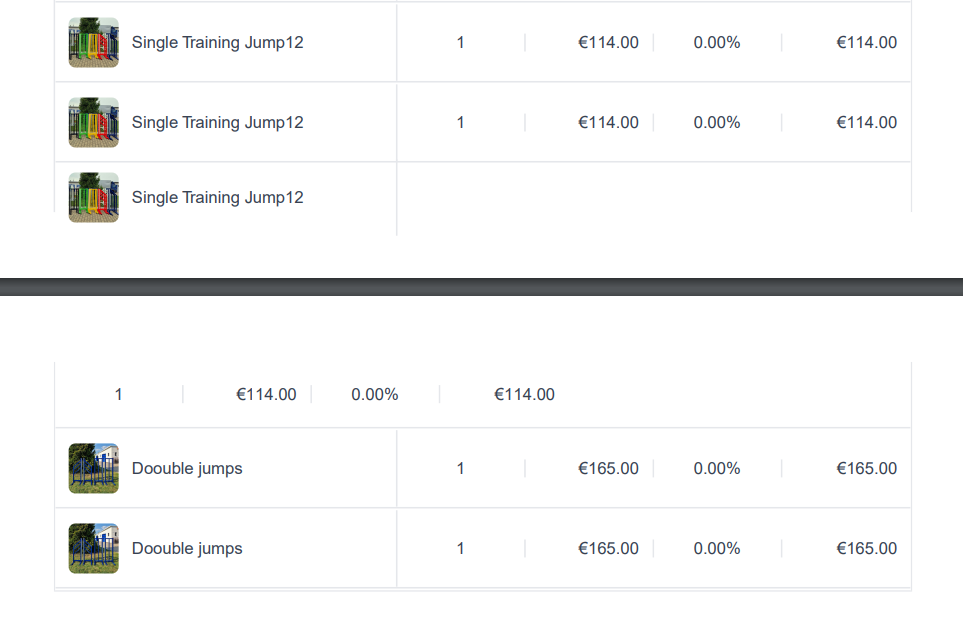
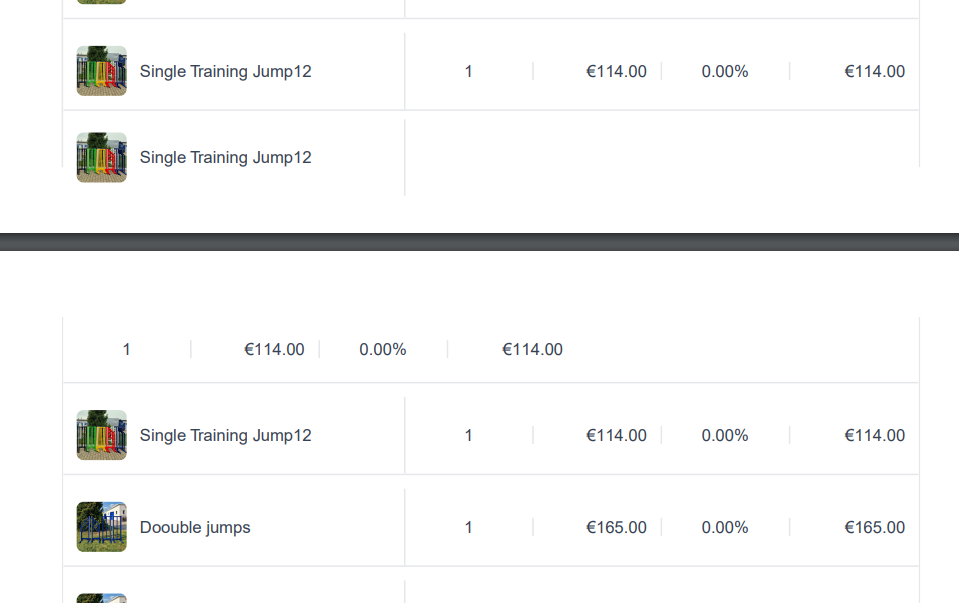
Agent query: Can you generate a PDF with multiple items to verify if the table rows and page breaks are working correctly now? Are items still being split across pages?

diff --git a/client/src/components/PDFGenerator.tsx b/client/src/components/PDFGenerator.tsx
@@ -77,8 +77,6 @@ const styles = StyleSheet.create({
     lineHeight: 1.4,
   },
   table: {
-    display: "flex",
-    flexDirection: "column",
     width: "100%",
     marginTop: 20,
     marginBottom: 20,
@@ -87,20 +85,25 @@ const styles = StyleSheet.create({
     borderStyle: "solid",
   },
   tableRow: {
-    flexDirection: "row",
+    width: "100%",
+    height: 50,
     borderBottomWidth: 1,
     borderBottomColor: "#e5e7eb",
     borderBottomStyle: "solid",
-    minHeight: 40,
-    alignItems: "center",
+    paddingVertical: 8,
   },
   tableRowWrapper: {
     width: "100%",
-    breakInside: "avoid",
+    breakInside: "avoid-page",
     pageBreakInside: "avoid",
-    marginBottom: 4,
-    paddingTop: 2,
-    paddingBottom: 2,
+    marginBottom: 8,
+    paddingVertical: 4,
+  },
+  tableContent: {
+    width: "100%",
+    flexDirection: "row",
+    alignItems: "center",
+    height: "100%",
   },
   tableHeader: {
     backgroundColor: "#f9fafb",
@@ -275,60 +278,66 @@ function OfferPDF({ offer, client, items, fileName }: OfferPDFProps) {
         </View>
 
         <View style={styles.table}>
-          <View style={{ breakInside: 'avoid', pageBreakInside: 'avoid' }}>
+          <View style={{ breakInside: 'avoid-page', pageBreakInside: 'avoid', marginBottom: 16 }}>
             <View style={[styles.tableRow, styles.tableHeader]}>
-              <Text style={[styles.tableCell, styles.tableCellProduct]}>
-                Product
-              </Text>
-              <Text style={[styles.tableCell, styles.tableCellQuantity]}>
-                Quantity
-              </Text>
-              <Text style={[styles.tableCell, styles.tableCellPrice]}>
-                Unit Price
-              </Text>
-              <Text style={[styles.tableCell, styles.tableCellDiscount]}>
-                Discount
-              </Text>
-              <Text style={[styles.tableCell, styles.tableCellTotal]}>Total</Text>
+              <View style={styles.tableContent}>
+                <Text style={[styles.tableCell, styles.tableCellProduct]}>
+                  Product
+                </Text>
+                <Text style={[styles.tableCell, styles.tableCellQuantity]}>
+                  Quantity
+                </Text>
+                <Text style={[styles.tableCell, styles.tableCellPrice]}>
+                  Unit Price
+                </Text>
+                <Text style={[styles.tableCell, styles.tableCellDiscount]}>
+                  Discount
+                </Text>
+                <Text style={[styles.tableCell, styles.tableCellTotal]}>Total</Text>
+              </View>
             </View>
           </View>
 
           {items.map((item) => {
-            const subtotal = item.quantity * item.unitPrice;
-            const discount = subtotal * (item.discount / 100);
+            const subtotal = Number(item.quantity) * Number(item.unitPrice);
+            const discount = subtotal * (Number(item.discount) / 100);
             const total = subtotal - discount;
 
             return (
-              <View key={item.id} style={styles.tableRowWrapper}>
-                <View style={styles.tableRow}>
-                  <View style={[styles.tableCell, styles.tableCellProduct]}>
-                    {item.product.imageUrl ? (
-                      <Image
-                        src={item.product.imageUrl}
-                        style={styles.productImage}
-                      />
-                    ) : (
-                      <View
-                        style={[
-                          styles.productImage,
-                          { backgroundColor: "#f4f4f4" },
-                        ]}
-                      />
-                    )}
-                    <Text>{item.product.name}</Text>
+              <View key={item.id} style={{ breakInside: 'avoid-page', pageBreakInside: 'avoid' }}>
+                <View style={styles.tableRowWrapper}>
+                  <View style={styles.tableRow}>
+                    <View style={styles.tableContent}>
+                      <View style={[styles.tableCell, styles.tableCellProduct]}>
+                        {item.product.imageUrl ? (
+                          <Image
+                            src={item.product.imageUrl}
+                            style={styles.productImage}
+                          />
+                        ) : (
+                          <View
+                            style={[
+                              styles.productImage,
+                              { backgroundColor: "#f4f4f4" },
+                            ]}
+                          />
+                        )}
+                        <Text>{item.product.name}</Text>
+                      </View>
+                      <Text style={[styles.tableCell, styles.tableCellQuantity]}>
+                        {item.quantity}
+                      </Text>
+                      <Text style={[styles.tableCell, styles.tableCellPrice]}>
+                        €{Number(item.unitPrice).toFixed(2)}
+                      </Text>
+                      <Text style={[styles.tableCell, styles.tableCellDiscount]}>
+                        {item.discount}%
+                      </Text>
+                      <Text style={[styles.tableCell, styles.tableCellTotal]}>
+                        €{total.toFixed(2)}
+                      </Text>
+                    </View>
                   </View>
-                  <Text style={[styles.tableCell, styles.tableCellQuantity]}>
-                    {item.quantity}
-                  </Text>
-                  <Text style={[styles.tableCell, styles.tableCellPrice]}>
-                    €{Number(item.unitPrice).toFixed(2)}
-                  </Text>
-                  <Text style={[styles.tableCell, styles.tableCellDiscount]}>
-                    {item.discount}%
-                  </Text>
-                  <Text style={[styles.tableCell, styles.tableCellTotal]}>
-                    €{total.toFixed(2)}
-                  </Text>
                 </View>
               </View>
             );
